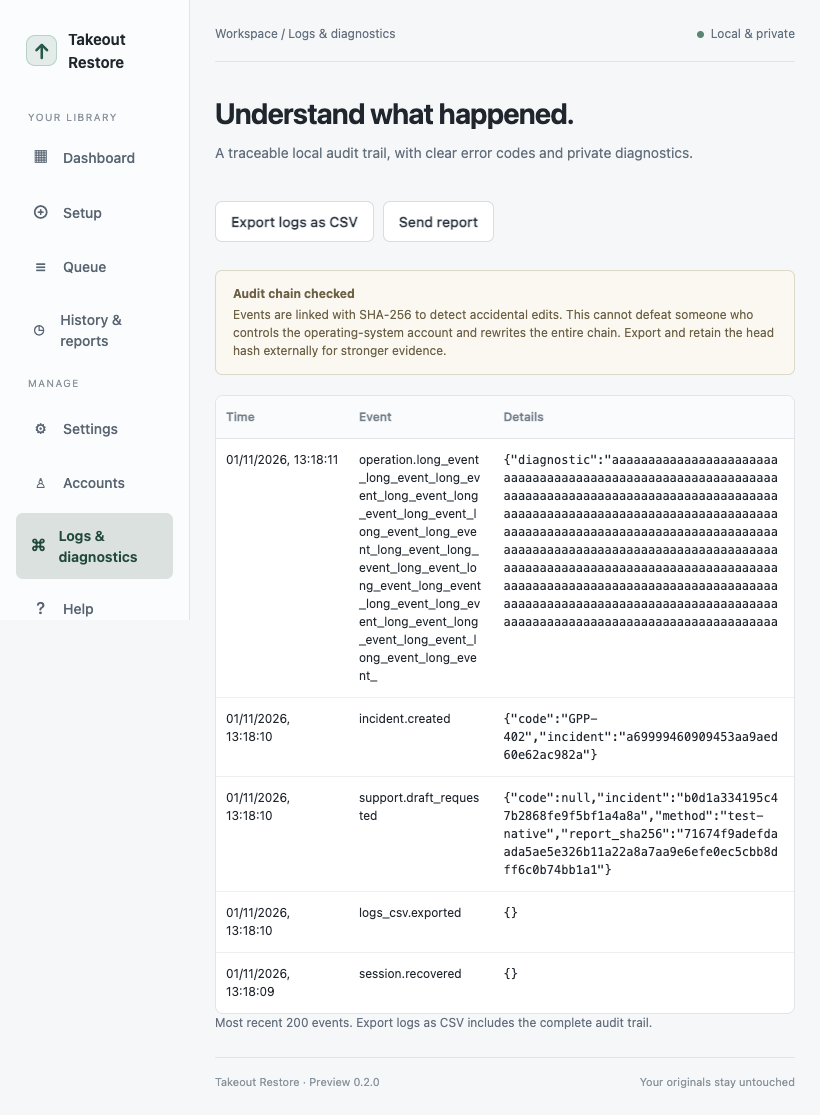
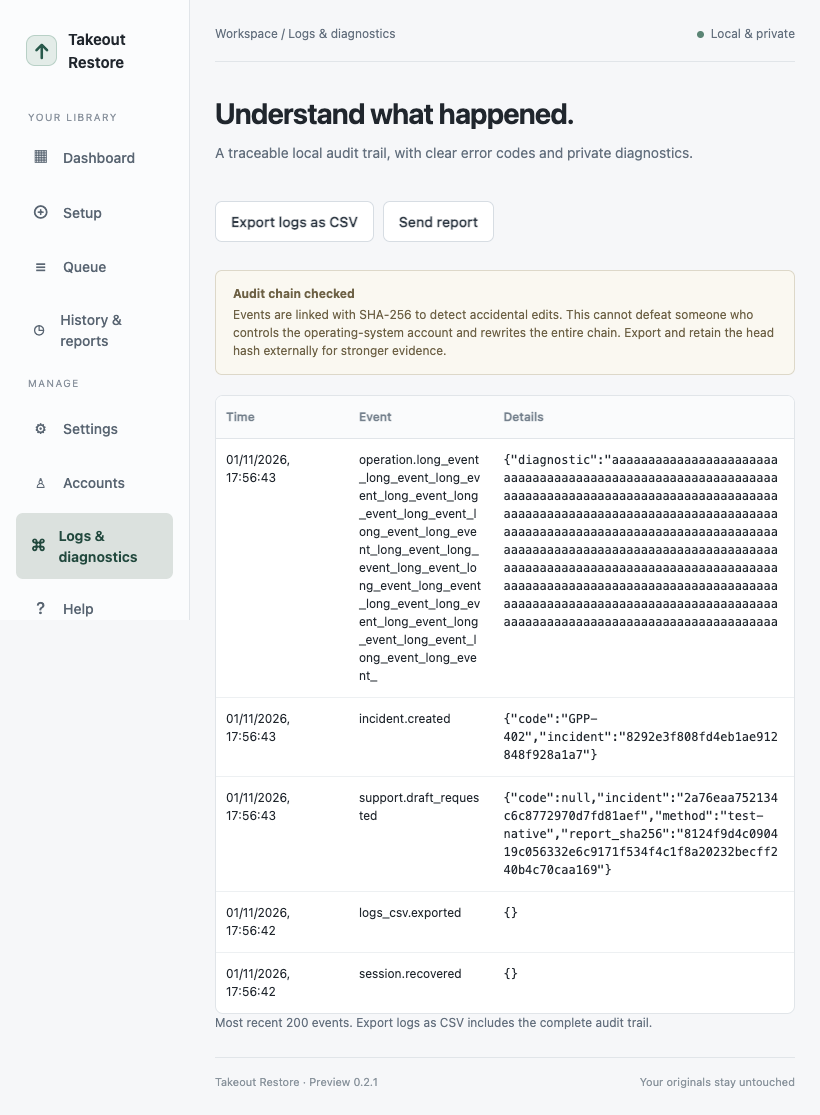
Prepare 0.2.1 release and make package signing explicit

diff --git a/photorestore/ui/app.js b/photorestore/ui/app.js
@@ -183,7 +183,7 @@ function shell() {
       )
       .join(
         "",
-      )}</nav><div class="sidebar-bottom"><label class="inline tiny"><input id="advanced-toggle" type="checkbox" ${state.settings.advanced ? "checked" : ""} ${state.job.active ? "disabled" : ""}>Advanced view</label><div class="profile-card"><div class="avatar">${esc(u.username.slice(0, 2).toUpperCase())}</div><div><div class="profile-name tiny">${esc(u.username)}</div><span class="muted tiny">${u.role === "admin" ? "Administrator" : "Standard account"}</span></div></div><button class="quiet tiny" data-action="logout" ${state.job.active ? "disabled" : ""}>Lock & sign out</button></div></aside><main class="main"><div class="topline"><span>Workspace / ${titles[page]}</span><span class="local"><span class="dot"></span>Local & private</span></div><section id="content"></section><footer class="footer"><span>Takeout Restore · Preview 0.2.0</span><span>Your originals stay untouched</span></footer></main></div>`;
+      )}</nav><div class="sidebar-bottom"><label class="inline tiny"><input id="advanced-toggle" type="checkbox" ${state.settings.advanced ? "checked" : ""} ${state.job.active ? "disabled" : ""}>Advanced view</label><div class="profile-card"><div class="avatar">${esc(u.username.slice(0, 2).toUpperCase())}</div><div><div class="profile-name tiny">${esc(u.username)}</div><span class="muted tiny">${u.role === "admin" ? "Administrator" : "Standard account"}</span></div></div><button class="quiet tiny" data-action="logout" ${state.job.active ? "disabled" : ""}>Lock & sign out</button></div></aside><main class="main"><div class="topline"><span>Workspace / ${titles[page]}</span><span class="local"><span class="dot"></span>Local & private</span></div><section id="content"></section><footer class="footer"><span>Takeout Restore · Preview 0.2.1</span><span>Your originals stay untouched</span></footer></main></div>`;
 }
 function header(title, subtitle, actions = "") {
   return `<header class="pagehead"><div><h1>${title}</h1><p>${subtitle}</p></div><div class="actions">${actions}</div></header>`;

diff --git a/scripts/package_linux.py b/scripts/package_linux.py
@@ -2,16 +2,18 @@
 
 import shutil
 import subprocess
+import tomllib
 from pathlib import Path
 
 root = Path(__file__).resolve().parents[1]
 dist = root / "dist"
+version = tomllib.loads((root / "pyproject.toml").read_text())["project"]["version"]
 package = dist / "deb-root"
 app = package / "opt/takeout-restore"
 shutil.copytree(dist / "TakeoutRestore", app, dirs_exist_ok=True)
 (package / "DEBIAN").mkdir(parents=True, exist_ok=True)
-(package / "DEBIAN/control").write_text("""Package: takeout-restore
-Version: 0.2.0
+(package / "DEBIAN/control").write_text(f"""Package: takeout-restore
+Version: {version}
 Architecture: amd64
 Maintainer: Takeout Restore maintainers
 Depends: libgtk-3-0, libwebkit2gtk-4.1-0, libgirepository-1.0-1, libnss3, libxss1, libasound2, libgbm1, libatk-bridge2.0-0, libdrm2
@@ -27,10 +29,10 @@ icons = package / "usr/share/icons/hicolor/scalable/apps"
 icons.mkdir(parents=True, exist_ok=True)
 shutil.copy(root / "packaging/icon.svg", icons / "takeout-restore.svg")
 subprocess.run(
-    ["dpkg-deb", "--build", "--root-owner-group", str(package), str(dist / "TakeoutRestore-linux-x64.deb")],
+    ["dpkg-deb", "--build", "--root-owner-group", str(package), str(dist / f"TakeoutRestore-{version}-linux-x64.deb")],
     check=True,
 )
-shutil.make_archive(str(dist / "TakeoutRestore-linux-x64-portable"), "gztar", dist, "TakeoutRestore")
+shutil.make_archive(str(dist / f"TakeoutRestore-{version}-linux-x64-portable"), "gztar", dist, "TakeoutRestore")
 # AppImage packages the same payload. The .deb is preferred on a clean Ubuntu install:
 # it resolves WebKitGTK's system dependencies through the OS package manager.
 import hashlib
@@ -76,7 +78,7 @@ subprocess.run(
         "--runtime-file",
         str(runtime),
         str(appdir),
-        str(dist / "TakeoutRestore-linux-x64.AppImage"),
+        str(dist / f"TakeoutRestore-{version}-linux-x64.AppImage"),
     ],
     check=True,
     env={**os.environ, "ARCH": "x86_64"},

diff --git a/tests/test_support_reports.py b/tests/test_support_reports.py
@@ -11,7 +11,7 @@ import zipfile
 from unittest.mock import Mock
 from urllib.parse import parse_qs, urlsplit
 import pytest
-from photorestore import maildraft, support
+from photorestore import __version__, maildraft, support
 from photorestore.errors import AppError
 from photorestore.service import Service, StartupSupport
 from photorestore.store import Store
@@ -48,7 +48,7 @@ def test_bundle_redacts_secrets_and_identifies_build_and_observed_error(tmp_path
     )
     identity = {
         "name": "Takeout Restore",
-        "version": "0.2.0",
+        "version": __version__,
         "build_id": "a" * 64,
         "executable_sha256": "b" * 64,
     }
@@ -138,7 +138,7 @@ def test_report_requires_auth_consent_and_save_before_composer(tmp_path, monkeyp
     assert not list(tmp_path.glob(".takeout-report-*"))
     subject, body, attachment = composer.call_args.args
     assert attachment == output and output.name in body and ".takeout-report-" not in body
-    assert "0.2.0" in subject
+    assert __version__ in subject
     assert service.call("acknowledge_incident", {"incident_id": result["data"]["incident_id"]}, token)["ok"]
     with service.store.connect() as con:
         assert not con.execute("SELECT 1 FROM audit WHERE action='support.sent'").fetchone()

diff --git a/scripts/ui_smoke.py b/scripts/ui_smoke.py
@@ -7,7 +7,7 @@ import json
 import tempfile
 from pathlib import Path
 from unittest.mock import Mock
-from photorestore import macos
+from photorestore import __version__, macos
 from photorestore.errors import AppError
 import photorestore.service as service_module
 from playwright.sync_api import sync_playwright
@@ -102,7 +102,7 @@ with tempfile.TemporaryDirectory() as tmp, sync_playwright() as pw:
     page.get_by_role("button", name="Send report", exact=True).click()
     page.get_by_role("button", name="Save report & open email", exact=True).click()
     page.get_by_role("heading", name="Review your email draft", exact=True).wait_for()
-    assert destination.exists() and "0.2.0" in composer.call_args.args[0]
+    assert destination.exists() and __version__ in composer.call_args.args[0]
     assert "sarthakg043@gmail.com" in page.locator("#modal-content").inner_text()
     page.locator("#modal-ok").click()
     page.get_by_role("button", name="Help", exact=True).click()

diff --git a/photorestore/__init__.py b/photorestore/__init__.py
@@ -1,1 +1,1 @@
-__version__ = "0.2.0"
+__version__ = "0.2.1"

diff --git a/docs/APPLE-RELEASE.md b/docs/APPLE-RELEASE.md
@@ -1,4 +1,4 @@
-# Apple release guide — Takeout Restore 0.2.0
+# Apple release guide — Takeout Restore 0.2.1
 
 For the maintainer. End users should read [USAGE.md](../USAGE.md). This guide covers testing the DMG, signing, notarizing, secure GitHub automation, and the additional work required for a Mac App Store release.
 
@@ -10,7 +10,7 @@ Commands assume you are in the project root and use its `.venv`. Replace example
 
 **Mac App Store:** requires a separate compliant build and App Review. Signing/notarizing this DMG does not make it an App Store build, and App Store Connect does not accept this DMG as the app submission.
 
-Apple requires Mac App Store sandboxing and restricts downloading standalone applications or executable code that adds functionality. The current preview has no App Sandbox entitlement and can download/run a standalone browser. **Our assessment: 0.2.0 is not ready for Mac App Store submission.** Resolve those architectural issues before packaging a store candidate. [Apple: App Review Guidelines, especially 2.4.5 and 2.5.2](https://developer.apple.com/app-store/review/guidelines/)
+Apple requires Mac App Store sandboxing and restricts downloading standalone applications or executable code that adds functionality. The current preview has no App Sandbox entitlement and can download/run a standalone browser. **Our assessment: 0.2.1 is not ready for Mac App Store submission.** Resolve those architectural issues before packaging a store candidate. [Apple: App Review Guidelines, especially 2.4.5 and 2.5.2](https://developer.apple.com/app-store/review/guidelines/)
 
 The steps below prepare a direct-download release now. Section 10 describes the separate App Store path without presenting an unsupported signing command as a way around those requirements.
 
@@ -20,7 +20,7 @@ The steps below prepare a direct-download release now. Section 10 describes the 
 - A current compatible Xcode installation, its command-line tools, and completed first-launch setup.
 - A **Developer ID Application** certificate with its private key in your login keychain. It signs a directly distributed app and DMG; a Developer ID Installer certificate is only needed if distributing an installer PKG.
 - The current bundle identifier is `org.takeoutrestore.desktop`. Register it with your team if available. If you need an identifier you own, change the bundle metadata and identifier checks consistently before release; use `rg 'org.takeoutrestore.desktop' photorestore packaging docs` to find them.
-- App version **0.2.0** and matching package/workflow versions. An App Store candidate additionally needs a unique, increasing build number and the correct store signing/provisioning configuration.
+- App version **0.2.1** and matching package/workflow versions. An App Store candidate additionally needs a unique, increasing build number and the correct store signing/provisioning configuration.
 - Verify third-party licences, dependency updates and release notes. Confirm the public support mailbox is working and prepare an accurate privacy policy before public distribution.
 
 Inspect your tools and signing identities:
@@ -112,7 +112,7 @@ The package script signs the DMG too when `MAC_SIGN_IDENTITY` is set. Select the
 
 ```sh
 APP='dist/Takeout Restore.app'
-DMG='dist/TakeoutRestore-0.2.0-macos-arm64-preview.dmg'
+DMG='dist/TakeoutRestore-0.2.1-macos-arm64-preview.dmg'
 codesign --verify --verbose=2 "$DMG"
 hdiutil verify "$DMG"
 ```
@@ -175,7 +175,7 @@ If you will also distribute the portable ZIP, staple the original app using the 
 xcrun stapler staple "$APP"
 xcrun stapler validate "$APP"
 ditto -c -k --sequesterRsrc --keepParent "$APP" \
-  'dist/TakeoutRestore-0.2.0-macos-arm64-portable.zip'
+  'dist/TakeoutRestore-0.2.1-macos-arm64-portable.zip'
 .venv/bin/python scripts/checksums.py
 ```
 
@@ -217,11 +217,20 @@ Test the unsigned artifacts. After the tested commit is merged into protected `m
 ```sh
 git switch main
 git pull --ff-only
-git tag -a v0.2.0 -m 'Takeout Restore 0.2.0'
-git push origin v0.2.0
+git tag -a v0.2.1 -m 'Takeout Restore 0.2.1'
+git push origin v0.2.1
 ```
 
-The tag triggers the release-signing environment. Review and approve the signing job only for the intended commit. The workflow checks the tag commit is reachable from `origin/main`, imports the P12 into a temporary keychain, builds/signs the app, signs/packages the DMG, submits with the API key, staples, checksums, and generates provenance attestations. Temporary signing material is removed by cleanup steps.
+By default, the tag produces unsigned preview artifacts. Once the protected signing
+credentials for all applicable platforms are configured, explicitly request signing:
+
+```sh
+gh workflow run build.yml --ref v0.2.1 -f sign_release=true
+```
+
+Alternatively set the repository variable `RELEASE_SIGNING_ENABLED=true` to opt into
+automatic signing for future version tags. A branch cannot request signing. Review
+and approve the release-signing environment only for the intended commit. The workflow checks the tag commit is reachable from `origin/main`, imports the P12 into a temporary keychain, builds/signs the app, signs/packages the DMG, submits with the API key, staples, checksums, and generates provenance attestations on supported GitHub plans. Private repositories skip attestations unless `ENABLE_PRIVATE_ATTESTATIONS=true` is configured. Each artifact records its signing/attestation status in `SIGNING-STATUS.json`. Temporary signing material is removed by cleanup steps.
 
 Download the completed artifacts and verify them on a clean Mac. Publishing a GitHub Release remains a separate maintainer decision; the workflow does not silently publish one. Do not create/reuse the same version tag after changing the tested source; increment version/build metadata for a revised release.
 
@@ -241,7 +250,7 @@ Users can compare the displayed SHA-256 to the entry for that filename in SHA256
 
 ## 10. Separate Mac App Store readiness work
 
-Do not submit 0.2.0's DMG or simply add the sandbox entitlement to its existing signing file. That would not implement sandbox-safe behavior. Before a store build:
+Do not submit 0.2.1's DMG or simply add the sandbox entitlement to its existing signing file. That would not implement sandbox-safe behavior. Before a store build:
 
 - Redesign browser provisioning/execution to meet the store rules; obtain an acceptable integration approach and test it honestly. Do not hide a download/automation path from App Review.
 - Implement and test App Sandbox access, container-based app storage and persistent access to chosen Takeout folders using security-scoped bookmarks. Re-audit child-process inheritance, network/CDP access, ExifTool, device authentication and email composition under sandboxing.
@@ -258,8 +267,8 @@ Once a compliant, separately signed store app exists, Apple's tools can package 
 productbuild \
   --sign '3rd Party Mac Developer Installer: YOUR NAME (YOURTEAMID)' \
   --component 'STORE_BUILD/Takeout Restore.app' /Applications \
-  'dist/TakeoutRestore-0.2.0-AppStore.pkg'
-pkgutil --check-signature 'dist/TakeoutRestore-0.2.0-AppStore.pkg'
+  'dist/TakeoutRestore-0.2.1-AppStore.pkg'
+pkgutil --check-signature 'dist/TakeoutRestore-0.2.1-AppStore.pkg'
 ```
 
 The app must already carry the correct Mac App Store app signature, entitlements and provisioning profile before `productbuild` signs the installer. Confirm the exact installed installer identity with `security find-identity -v`; the `-p codesigning` filter omits installer identities. [Apple: packaging Mac software](https://developer.apple.com/documentation/xcode/packaging-mac-software-for-distribution)

diff --git a/docs/SIGNING.md b/docs/SIGNING.md
@@ -1,7 +1,7 @@
 # Secure signing automation
 
-The workflow builds unsigned preview packages through `workflow_dispatch` and signs
-version-tag builds through a separate protected GitHub Environment. Signing credentials
+The workflow builds clearly labelled unsigned preview packages by default, including
+version tags. Signing is opt-in through a separate protected GitHub Environment. Signing credentials
 are not included in this codebase or in end-user applications.
 
 ## GitHub setup
@@ -15,7 +15,12 @@ are not included in this codebase or in end-user applications.
    moving action tags. Repository administrators remain trusted.
 5. Run unsigned builds and validate the actual packages before tagging. A version tag
    must point to a commit reachable from `origin/main`; the workflow checks this.
-6. Review the release-signing approval, then download and verify artifacts/provenance.
+6. After credentials are configured, select a version tag in `workflow_dispatch` and
+   enable `sign_release`, or set the **repository** variable `RELEASE_SIGNING_ENABLED=true`
+   to sign future version tags automatically. Branch signing requests are rejected;
+   signed tags must match the package version. A requested signing failure stops the
+   build rather than silently producing a signed-labelled unsigned package.
+7. Review the release-signing approval, then download and verify artifacts/provenance.
    Publishing a GitHub release is deliberately a separate maintainer action.
 
 ## Apple Developer ID
@@ -79,7 +84,12 @@ Microsoft documentation: https://learn.microsoft.com/en-us/azure/artifact-signin
 ## Linux and provenance
 
 The workflow generates GitHub/Sigstore build-provenance attestations with OIDC for
-version-tag artifacts and creates SHA256SUMS after signing/notarization. This is
+version-tag artifacts in public repositories and creates SHA256SUMS after
+signing/notarization. Private repositories require an eligible GitHub plan; enable
+`ENABLE_PRIVATE_ATTESTATIONS=true` as a repository variable only after confirming
+support. Otherwise attestation is skipped explicitly, without failing an otherwise
+valid package build. Each artifact includes `SIGNING-STATUS.json`; Linux packages
+remain unsigned previews unless signed separately. This is
 keyless artifact attestation, not a distribution-repository `.deb` signature. If you
 operate an apt repository, sign its Release metadata with a separately managed
 repository signing key. Do not confuse checksums alone with authentication.

diff --git a/docs/VALIDATION.md b/docs/VALIDATION.md
@@ -171,3 +171,25 @@ passed. A native Windows GitHub run
 must use a newly committed/pushed revision; re-running an old workflow run still tests
 that old commit. The Mac preview DMG built before this correction is unchanged; rebuild
 release artifacts from the corrected source before signing/publication.
+
+
+## 0.2.1 Unicode metadata and release packaging
+
+PR #1 restores lossless Windows metadata input using UTF-8 ExifTool argument files
+and private UTF-8 description files. Read-back validation remains strict. Regression
+coverage includes Unicode paths/text, multi-line and long descriptions, cleanup on
+failure, and simulated lossy Windows command-line encoding. Native Windows CI for
+that fix passed 130 tests with one POSIX-only filename test skipped; local macOS
+passed all 131 tests. PR #1's final source CI passed on Windows, Linux and macOS.
+
+Release preparation centralizes macOS/Linux package versions in pyproject.toml and
+updates the Windows installer, UI and usage guide to 0.2.1. Unsigned CI builds no
+longer require signing secrets. Signing remains opt-in, tag-restricted and fail-closed.
+Private-repository attestations require an explicit supported-plan opt-in; skipped
+attestation is recorded rather than presented as verified provenance.
+
+The final 0.2.1 local source suite passed **131 tests** with bundled ExifTool.
+Ruff, JavaScript syntax, whitespace checks and actionlint passed. The real UI/service
+smoke passed all screens at 820–1580px, recovery/export/reset, role isolation, usage,
+incident prompts, ZIP/draft handoff and disposable-data cleanup. Screenshots were
+regenerated from the 0.2.1 interface.

diff --git a/README.md b/README.md
@@ -14,6 +14,19 @@ website. Test a small sample and keep your independent Takeout backup.
 
 ![Desktop dashboard](docs/screenshots/dashboard.png)
 
+## 0.2.1 Windows metadata correction
+
+Unicode paths and descriptions now reach bundled ExifTool through UTF-8 input,
+including long and multi-line descriptions. Metadata is still read back and verified
+before an upload can proceed. The developer overview includes Mermaid diagrams of
+the app, connection, upload and support flows.
+
+Package filenames and embedded versions identify 0.2.1 across platforms. GitHub
+package builds produce unsigned previews by default; protected signing is an explicit
+option, and artifact status records distinguish signatures from checksums. See
+[signing setup](docs/SIGNING.md) and the [Mac release guide](docs/APPLE-RELEASE.md).
+
+
 ## Google sign-in: original Chrome/CDP flow (0.1.1)
 
 The app now follows the original pipeline: launch a dedicated Chrome process, let the

diff --git a/docs/DEVELOPER-OVERVIEW.md b/docs/DEVELOPER-OVERVIEW.md
@@ -1,6 +1,6 @@
 # Inside Takeout Restore: from a Takeout folder to Google Photos
 
-*A high-level developer overview of version 0.2.0.*
+*A high-level developer overview of version 0.2.1.*
 
 A Google Takeout export can contain a photo and a separate JSON file describing its date, location and other details. That extra file is called a **sidecar**. Uploading the photo alone can leave useful information behind.
 

diff --git a/USAGE.md b/USAGE.md
@@ -1,6 +1,6 @@
 # Takeout Restore — usage guide
 
-For version **0.2.0**. You do not need to write code, edit configuration files, or use Terminal to operate the app.
+For version **0.2.1**. You do not need to write code, edit configuration files, or use Terminal to operate the app.
 
 ## What this app does
 
